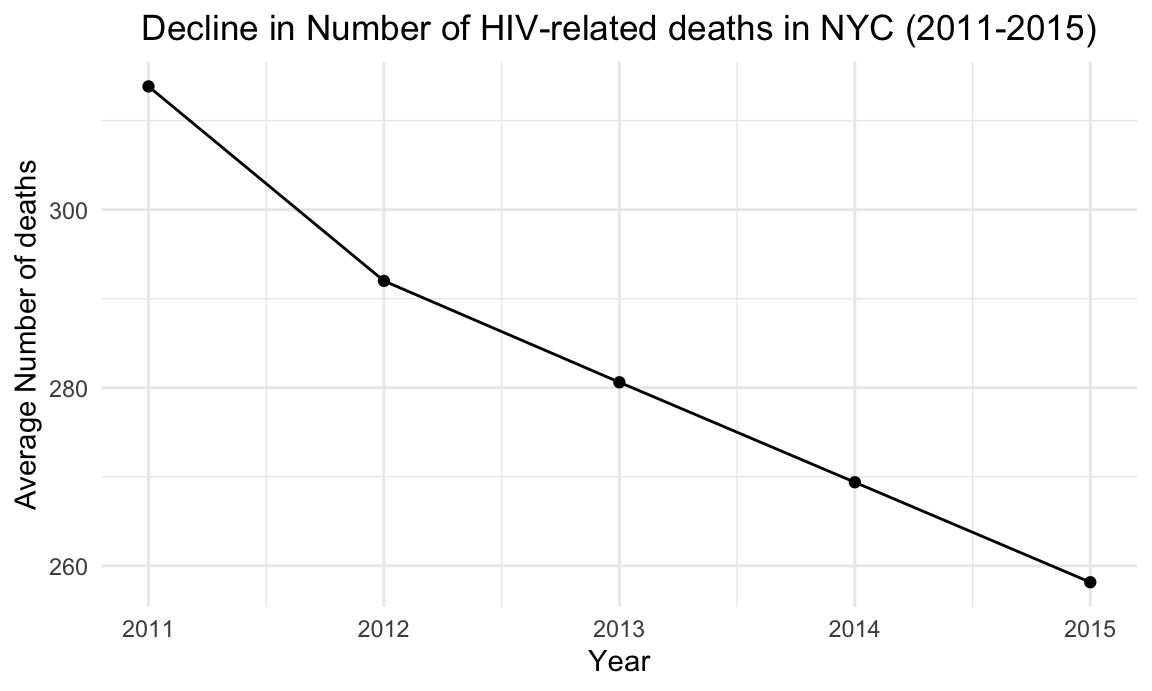
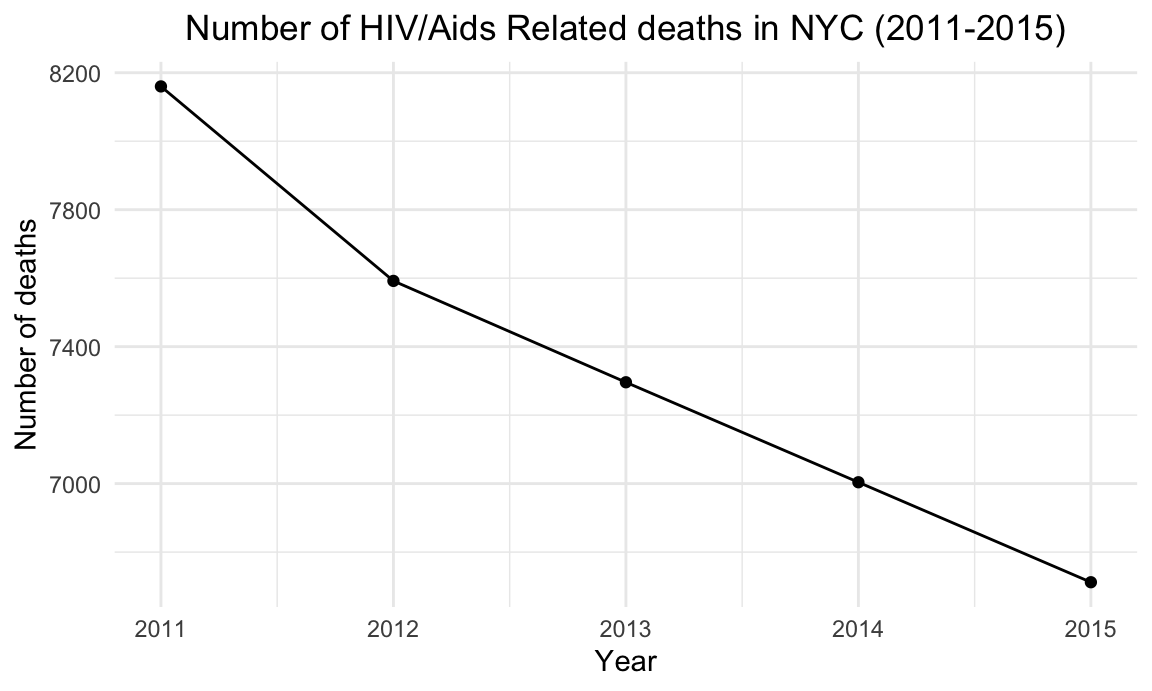
Edits to hiv-analysis

diff --git a/hiv_analysis.html b/hiv_analysis.html
@@ -11,7 +11,7 @@
 
 
 
-<title>HIV-Related Deaths</title>
+<title>HIV/Aids Related Deaths in New York City</title>
 
 <script src="site_libs/header-attrs-2.18/header-attrs.js"></script>
 <script src="site_libs/jquery-3.6.0/jquery-3.6.0.min.js"></script>
@@ -354,14 +354,15 @@ div.tocify {
 
 
 
-<h1 class="title toc-ignore">HIV-Related Deaths</h1>
+<h1 class="title toc-ignore">HIV/Aids Related Deaths in New York
+City</h1>
 
 </div>
 
 
-<div id="motivation-to-investiagate-hiv-related-deaths"
+<div id="motivation-to-investiagate-hivaids-related-deaths"
 class="section level2">
-<h2>Motivation to Investiagate HIV-Related Deaths</h2>
+<h2>Motivation to Investiagate HIV/Aids Related Deaths</h2>
 <pre class="r"><code>#Import data set and clean data
 
 hiv_data = read.csv(&quot;data/DOHMH_HIV_AIDS_Annual_Report.csv&quot;) %&gt;%
@@ -370,73 +371,78 @@ hiv_data = read.csv(&quot;data/DOHMH_HIV_AIDS_Annual_Report.csv&quot;) %&gt;%
   rename(., sex = gender)</code></pre>
 </div>
 <div
-id="visualizing-hiv-incidence-and-mortality-rates-by-borough-race-and-gender"
+id="visualizing-hivaids-number-of-deaths-and-death-rate-by-borough-race-and-gender"
 class="section level2">
-<h2>Visualizing HIV Incidence and Mortality Rates by Borough, Race, and
-Gender</h2>
-<pre class="r"><code>#Average Number of HIV-related Deaths in NYC (2011-2015)
+<h2>Visualizing HIV/Aids Number of Deaths and Death Rate by Borough,
+Race, and Gender</h2>
+<pre class="r"><code>#Number of HIV-related Deaths in NYC (2011-2015)
 
-hiv_data %&gt;% 
+hiv_deaths = hiv_data %&gt;% 
   filter(borough == &quot;All&quot;) %&gt;% # Filter hiv data by borough
-  select(.data = ., year, deaths)   %&gt;%
-      group_by(year) %&gt;%
-         summarise(mean_deaths = mean(deaths)) %&gt;% #mean number of deaths 
- ggplot(aes(x = year, y = mean_deaths)) +
+  select(.data = ., year, deaths) %&gt;%
+  group_by(year) %&gt;%
+  summarise(sum_deaths = sum(deaths))
+  
+ggplot(data=hiv_deaths, aes(x=year, y= sum_deaths, group=1)) +
     geom_line() +
     geom_point()+
-  labs (title = &quot;Decline in Number of HIV-related deaths in NYC (2011-2015)&quot;,
+  labs (title = &quot;Number of HIV/Aids Related deaths in NYC (2011-2015)&quot;,
     x = &quot;Year&quot;,
-    y = &quot;Average Number of deaths&quot;) +
+    y = &quot;Number of deaths&quot;) +
   theme(plot.title = element_text(hjust = 0.5))</code></pre>
 <p><img src="hiv_analysis_files/figure-html/unnamed-chunk-2-1.png" width="90%" /></p>
-<pre class="r"><code>#Average HIV-related deaths in NYC by race 
+<pre class="r"><code>#HIV-related deaths in NYC by race 
 
 hiv_data %&gt;% # Filter hiv data by borough
   filter(borough != &quot;All&quot;) %&gt;% # Filter hiv data by borough
+  filter(race != &quot;All&quot; &amp; race != &#39;Other/Unknown&#39;) %&gt;% # Filter hiv data by race
   select(.data = ., year, deaths, race, borough)   %&gt;% 
       group_by(year, race, borough) %&gt;%
-         summarise(mean_deaths = mean(deaths)) %&gt;% #mean number of deaths  
- ggplot(aes(x = year, y = mean_deaths, color = race)) +
+         summarise(sum_deaths = sum(deaths)) %&gt;% #total number of deaths  
+ ggplot(aes(x = year, y = sum_deaths, color = race)) +
     geom_line() +
   facet_grid(~borough) +
-  labs (title = &quot;Average HIV-related deaths in NYC by Race (2011-2015)&quot;,  
+  labs (title = &quot;HIV-related deaths in NYC Boroughs by Race (2011-2015)&quot;,  
     x = &quot;Year&quot;,
-    y = &quot;Average Number of deaths&quot;) + 
+    y = &quot;Number of deaths&quot;) + 
   theme(axis.text.x = element_text(angle = 90, vjust = 0.5, hjust = 1)) +
   theme(plot.title = element_text(hjust = 0.5))  </code></pre>
 <p><img src="hiv_analysis_files/figure-html/unnamed-chunk-3-1.png" width="90%" /></p>
-<pre class="r"><code>#Average Number of HIV-related deaths in NYC by Sex 
+<pre class="r"><code>#Number of HIV-related deaths in NYC by Sex 
 
 hiv_data %&gt;% 
   filter(sex != &quot;All&quot;) %&gt;% # Filter hiv data by gender
+  filter(sex != &quot;Transgender&quot;) %&gt;% # Filter hiv data by gender
   filter(borough != &quot;All&quot;) %&gt;% # Filter hiv data by borough
   select(.data = ., year, deaths, sex, borough)   %&gt;% 
       group_by(year, sex, borough) %&gt;%
-         summarise(mean_deaths = mean(deaths)) %&gt;% #mean number of deaths  
- ggplot(aes(x = year, y = mean_deaths, fill = sex)) +
+         summarise(sum_deaths = sum(deaths)) %&gt;% #mean number of deaths  
+ ggplot(aes(x = year, y = sum_deaths, fill = sex)) +
   geom_bar(stat= &quot;identity&quot;) +
   facet_grid(~borough) +
-  labs(title = &quot;Average HIV-related deaths in NYC by Sex (2011-2015)&quot;,  
+  labs(title = &quot;HIV/Aids related deaths in NYC by Sex (2011-2015)&quot;,  
     x = &quot;Year&quot;,
     y = &quot;Average Number of deaths&quot;) + 
   theme(axis.text.x = element_text(angle = 90, vjust = 0.5, hjust = 1)) +
   theme(plot.title = element_text(hjust = 0.5))  </code></pre>
 <p><img src="hiv_analysis_files/figure-html/unnamed-chunk-4-1.png" width="90%" /></p>
-<pre class="r"><code># Total Number of Deaths in NYC by Age 
+<pre class="r"><code>#Number of Hiv-related Deaths in NYC  by Age 
 hiv_data %&gt;% 
   filter(age != &quot;All&quot;) %&gt;% 
+  filter(borough == &quot;All&quot;) %&gt;% 
   select(.data = ., deaths, age) %&gt;% 
   ggplot(aes(y = deaths, x = reorder(age, deaths), color = age)) +
   geom_boxplot() +
   theme_classic() +
   labs(x = &quot;Age Groups&quot;,
        y = &quot;Number of Deaths&quot;,
-       title = &quot;HIV-related deaths in NYC by Age (2011-2015)&quot;) +
+       title = &quot;HIV/Aids Related deaths in NYC by Age (2011-2015)&quot;) +
   theme(plot.title = element_text(hjust = 0.7))  </code></pre>
 <p><img src="hiv_analysis_files/figure-html/unnamed-chunk-5-1.png" width="90%" /></p>
-<pre class="r"><code># Total Number of Hiv-Related Deaths in NYC by Race 
+<pre class="r"><code># Number of Hiv-Related Deaths in NYC by Race 
 hiv_data %&gt;% 
-  filter(race != &quot;All&quot;) %&gt;% 
+  filter(race != &quot;All&quot; &amp; race != &quot;Other/Unknown&quot;) %&gt;% 
+  filter(borough == &quot;All&quot;) %&gt;% 
   select(.data = ., deaths, race) %&gt;% 
   ggplot(aes(y = deaths, x = reorder(race, deaths), color = race)) +
   geom_boxplot() +
